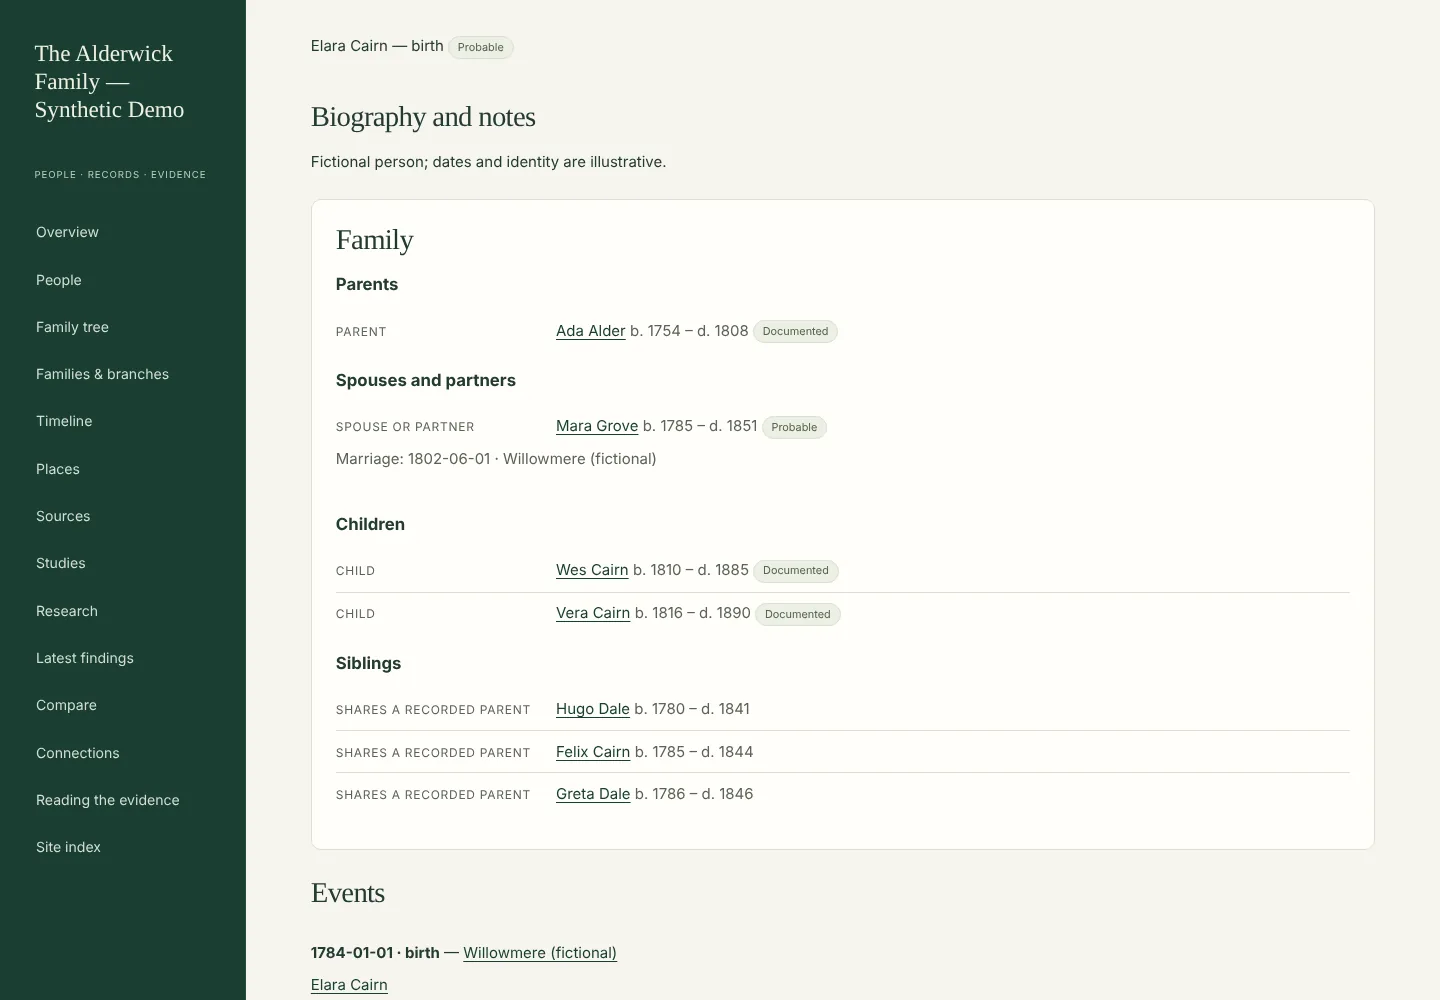
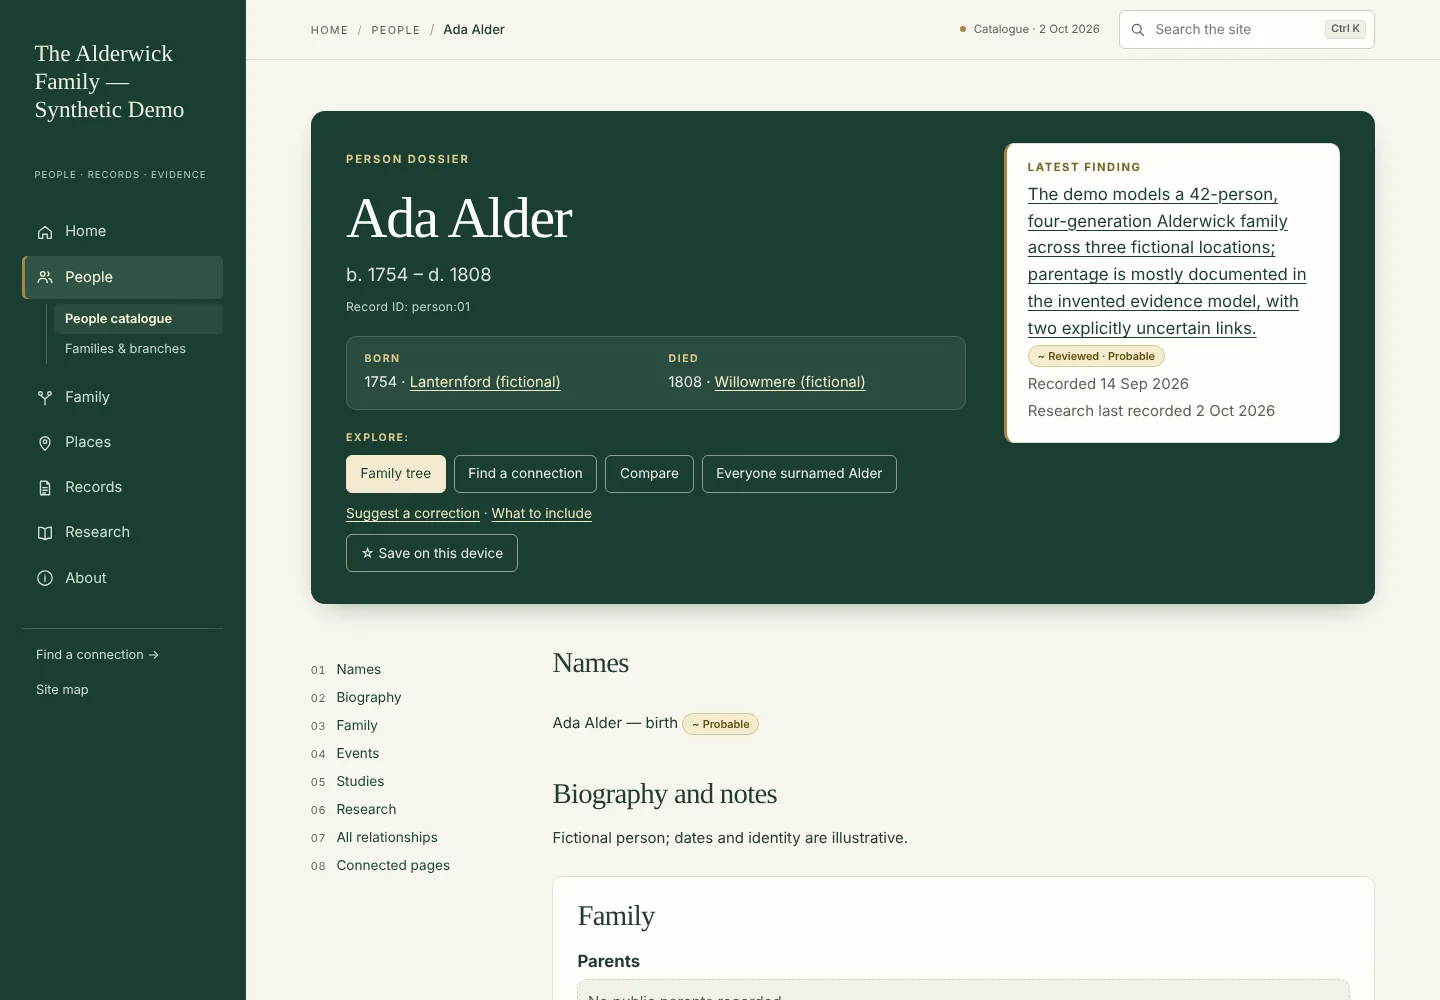
docs(readme): show the site as it now is, with refreshed screenshots and a capture script
Claude-Session: https://claude.ai/code/session_01XeMQC8PZDPeMtLwTfRoNKi

diff --git a/tools/readme_screenshots.py b/tools/readme_screenshots.py
@@ -1,0 +1,172 @@
+#!/usr/bin/env python3
+"""Capture the README and guide screenshots from the fictional demo.
+
+Builds examples/demo into a temporary folder (with the demo's own settings plus
+a contact address, the duplicates page, the surname and the tree name the
+README describes), serves it over a local-only server, and captures each page
+listed in SHOTS at 1440 x 1000 as a WebP under docs/images/. The upload screens
+come from ``genealogy serve`` on a temporary workspace, with the demo's own
+fictional GEDCOM chosen in the form. Nothing leaves the machine.
+
+    python tools/readme_screenshots.py            # every image
+    python tools/readme_screenshots.py people tree  # just these
+
+Needs the optional browser extras: ``pip install -e '.[browser]'`` and
+``python -m playwright install chromium`` (or GENEALOGY_BROWSER_EXECUTABLE).
+"""
+from __future__ import annotations
+
+import http.server
+import io
+import os
+import shutil
+import socket
+import subprocess
+import sys
+import tempfile
+import threading
+from functools import partial
+from pathlib import Path
+
+ROOT = Path(__file__).resolve().parents[1]
+IMAGES = ROOT / "docs" / "images"
+DEMO = ROOT / "examples" / "demo"
+WIDTH, HEIGHT = 1440, 1000
+
+# name -> (path, action before the shot: None, a CSS selector to click, or a callable(page))
+SHOTS: dict[str, tuple[str, object]] = {
+    "overview": ("index.html", None),
+    "people": ("catalogue.html", "summary:has-text('Places')"),
+    "tree": ("tree.html", "button:has-text('Hourglass')"),
+    "dossier": ("catalogue.html#first", None),  # the first person listed in the catalogue, resolved at run time
+    "research": ("research.html", None),
+    "study": ("studies/", None),  # the first study
+    "findings": ("findings.html", None),
+    "branches": ("branches.html", None),
+    "places": ("places.html", None),
+    "evidence": ("evidence.html", None),
+    "records": ("records.html", None),
+    "statistics": ("statistics.html", None),
+    "about-data": ("about-data.html", None),
+}
+
+
+def free_port() -> int:
+    with socket.socket() as sock:
+        sock.bind(("127.0.0.1", 0))
+        return sock.getsockname()[1]
+
+
+def serve(directory: Path) -> tuple[http.server.ThreadingHTTPServer, str]:
+    class Quiet(http.server.SimpleHTTPRequestHandler):
+        def log_message(self, *args, **kwargs):  # noqa: D102 - keep the capture log readable
+            pass
+    handler = partial(Quiet, directory=str(directory))
+    server = http.server.ThreadingHTTPServer(("127.0.0.1", free_port()), handler)
+    threading.Thread(target=server.serve_forever, daemon=True).start()
+    return server, f"http://127.0.0.1:{server.server_address[1]}/"
+
+
+def build_demo(target: Path) -> Path:
+    project = target / "demo"
+    shutil.copytree(DEMO, project)
+    config = project / "genealogy.toml"
+    text = config.read_text(encoding="utf-8")
+    text = text.replace("[site]\n", '[site]\ncontact_email = "corrections@example.org"\nduplicates = true\ntree_name = "WikiTree"\n', 1)
+    text += '\n[names]\nsurname = "Alderwick"\n'
+    config.write_text(text, encoding="utf-8")
+    out = target / "site"
+    subprocess.run([sys.executable, "-m", "genealogy", "--project", str(project), "build", "--output", str(out)],
+                   check=True, cwd=ROOT, env={**os.environ, "PYTHONPATH": str(ROOT / "src")}, capture_output=True)
+    return out
+
+
+def save(page, name: str) -> None:
+    from PIL import Image
+    png = page.screenshot(type="png")
+    IMAGES.mkdir(parents=True, exist_ok=True)
+    Image.open(io.BytesIO(png)).convert("RGB").save(IMAGES / f"{name}.webp", "WEBP", quality=82, method=6)
+    print(f"wrote docs/images/{name}.webp")
+
+
+def first(site: Path, folder: str) -> str:
+    return folder + sorted(p.name for p in (site / folder).glob("*.html"))[0]
+
+
+def capture_site(wanted: set[str]) -> None:
+    from playwright.sync_api import sync_playwright
+    with tempfile.TemporaryDirectory() as temporary, sync_playwright() as playwright:
+        site = build_demo(Path(temporary))
+        server, base = serve(site)
+        browser = playwright.chromium.launch(executable_path=os.environ.get("GENEALOGY_BROWSER_EXECUTABLE") or None)
+        page = browser.new_page(viewport={"width": WIDTH, "height": HEIGHT})
+        try:
+            for name, (path, action) in SHOTS.items():
+                if name not in wanted:
+                    continue
+                if path.endswith("/"):
+                    path = first(site, path)
+                elif path == "catalogue.html#first":
+                    page.goto(base + "catalogue.html")
+                    path = page.locator("tbody tr td a").first.get_attribute("href")
+                page.goto(base + path)
+                page.wait_for_load_state("networkidle")
+                if callable(action):
+                    action(page)
+                elif action:
+                    page.locator(action).first.click()
+                page.wait_for_timeout(400)
+                save(page, name)
+        finally:
+            browser.close()
+            server.shutdown()
+
+
+def capture_upload(wanted: set[str]) -> None:
+    """The ``genealogy serve`` upload form, empty and after importing the demo GEDCOM."""
+    if not wanted & {"upload", "upload-result"}:
+        return
+    from playwright.sync_api import sync_playwright
+    with tempfile.TemporaryDirectory() as temporary, sync_playwright() as playwright:
+        port = free_port()
+        process = subprocess.Popen([sys.executable, "-m", "genealogy", "--project", str(Path(temporary) / "workspace"), "serve", "--port", str(port)],
+                                   cwd=ROOT, env={**os.environ, "PYTHONPATH": str(ROOT / "src")}, stdout=subprocess.DEVNULL, stderr=subprocess.DEVNULL)
+        browser = playwright.chromium.launch(executable_path=os.environ.get("GENEALOGY_BROWSER_EXECUTABLE") or None)
+        page = browser.new_page(viewport={"width": WIDTH, "height": HEIGHT})
+        try:
+            for _ in range(50):
+                try:
+                    page.goto(f"http://127.0.0.1:{port}/")
+                    break
+                except Exception:  # noqa: BLE001 - the server is still starting
+                    page.wait_for_timeout(200)
+            page.wait_for_load_state("networkidle")
+            if "upload" in wanted:
+                save(page, "upload")
+            if "upload-result" in wanted:
+                page.set_input_files("#file", str(DEMO / "input" / "family.ged"))
+                page.fill("#name", "The Alderwick family (fictional)")
+                page.check("#review")
+                page.click("#submit")
+                page.locator("#result a").first.wait_for(timeout=60000)
+                page.locator("#result").scroll_into_view_if_needed()
+                page.wait_for_timeout(600)
+                save(page, "upload-result")
+        finally:
+            browser.close()
+            process.terminate()
+
+
+def main(argv: list[str]) -> int:
+    wanted = set(argv) or set(SHOTS) | {"upload", "upload-result"}
+    unknown = wanted - set(SHOTS) - {"upload", "upload-result"}
+    if unknown:
+        print("unknown screenshot(s): " + ", ".join(sorted(unknown)), file=sys.stderr)
+        return 2
+    capture_site(wanted)
+    capture_upload(wanted)
+    return 0
+
+
+if __name__ == "__main__":
+    raise SystemExit(main(sys.argv[1:]))

diff --git a/README.md b/README.md
@@ -24,28 +24,43 @@ Imports and builds run on your computer with **no runtime dependencies or networ
 
 ## What you can build
 
-![The fictional Alderwick family research website](docs/images/overview.webp)
+![The fictional Alderwick family research website: a home page with the tree at a glance, question-led entry cards and the latest findings](docs/images/overview.webp)
 
-| Explore the tree | Follow the evidence |
+| Find a person | Read a dossier |
 | --- | --- |
-| ![Interactive family tree with recorded relationship labels](docs/images/tree.webp) | ![Research notebook with claims, citations, hypotheses and questions](docs/images/research.webp) |
-| Pan, zoom and focus on a family. Uncertain links stay visible. | Keep sources, assessments and outstanding questions in view. |
-| ![Person dossier showing parents, partners, children and siblings](docs/images/dossier.webp) | ![Written study with linked people and a current conclusion](docs/images/study.webp) |
-| Read a family at a glance, including recorded step and adoptive roles. | Explain what you investigated, what the records show and what you conclude. |
+| ![The people catalogue: a research table with birth, death, places, spouse, father and mother, and seven filter menus](docs/images/people.webp) | ![A person dossier opening with a hero card of vitals, actions and the latest finding](docs/images/dossier.webp) |
+| A research table of everyone — dates, places, spouse, father and mother, each link with its evidence badge — behind seven menus: Name, Relatives, Dates, Places, Evidence, Filters and your tree. | Vitals, the latest finding and what to do next, then names, family with the reason for every link, events, studies and research. |
+| ![Interactive family tree, here the hourglass view around one person](docs/images/tree.webp) | ![The research notebook: open questions as cards, then hypotheses, findings, claims and the research log](docs/images/research.webp) |
+| Whole tree, family focus, branch cards, hourglass, family sun and lanes. Uncertain links stay visible. | Open questions first, with what would answer them; then hypotheses, findings, claims and every search made, including the ones that found nothing. |
 
 <details>
-<summary><b>More views: people, places, branches and evidence</b></summary>
+<summary><b>More views: studies, findings, records, branches, places, evidence, statistics and the data</b></summary>
 
-| Find and explore | Read with context |
+| Write it up | Follow the evidence |
 | --- | --- |
-| ![Searchable people catalogue with surname filters and life dates](docs/images/people.webp) | ![Surname groups and connected families](docs/images/branches.webp) |
-| Search names, relatives, events and places; filter, sort and paginate. | Browse surname groups and recorded family connections. |
-| ![Offline map using coordinates supplied in the imported data](docs/images/places.webp) | ![Reader's guide to confidence, status and relationship labels](docs/images/evidence.webp) |
-| Explore a timeline and place list, with a map where coordinates are supplied. | See what confidence labels mean, including “Unassessed tree link”. |
+| ![A written study with its type, counts, a locator map, limits and grouped links](docs/images/study.webp) | ![The findings log as a filterable table with a legend and feed link](docs/images/findings.webp) |
+| Why a question was investigated, what the records show, what it does not establish, and who and where it concerns. | Every dated conclusion, filterable by words, type, status, person, study and place; an Atom feed when a site has an address. |
+| ![The records page: one row per cited record with year, people, type, place and strongest assessment](docs/images/records.webp) | ![Reading the evidence: every badge and line explained, from strongest to weakest](docs/images/evidence.webp) |
+| Browse every cited record; search, filter by type, year and evidence, and sort. | One badge system across the site: confidence, grade, status, record quality and finding type, each linked to its meaning. |
+| ![Families and branches: surname groups with their people, years and places](docs/images/branches.webp) | ![Places: summary cards, a region filter and an offline map from supplied coordinates](docs/images/places.webp) |
+| Surname groups (spelling variants folded together) and connected families. | Place cards and pages, grouped by the region you file them under, with a map wherever coordinates are supplied. No tiles, no network. |
+| ![Statistics: a panel of headline figures and charts of births by century, names and places](docs/images/statistics.webp) | ![About the data: what the site counts, why pages count differently, and what it leaves out](docs/images/about-data.webp) |
+| What is in the collection and how well it is evidenced. | How the figures were gathered and graded, what every label means, and a dated change log of what moved. |
 
 </details>
 
-The screenshots use the [fully fictional Alderwick demo](examples/demo/README.md), captured on 19 October 2026 at 1440 × 1000. They contain no real family data. Core people, source, and research content remains readable with JavaScript disabled; interactive tools use local JavaScript.
+The screenshots use the [fully fictional Alderwick demo](examples/demo/README.md), captured on 22 October 2026 at 1440 × 1000 with `python tools/readme_screenshots.py`. They contain no real family data. Every page is readable with JavaScript disabled; the menus, search, maps and trees are local JavaScript with no network requests.
+
+### What a site contains
+
+| Area | Pages |
+| --- | --- |
+| People | Find a person (the catalogue), person dossiers, families and branches, possible duplicates (optional) |
+| Family | Family tree (six views), timeline, find a connection, compare two people |
+| Places | Map and place list, one page per place, statistics |
+| Records | All cited records, sources and citations, reading the evidence |
+| Research | Research notebook, studies, latest findings, research progress |
+| About | Site index and downloads (JSON, CSV, GeoJSON, GEDCOM, feeds), about the data, change log, corrections |
 
 ## Get started
 
@@ -115,13 +130,13 @@ The demo has 42 invented people, four generations, sources, uncertainty, and res
 
 | From a GEDCOM or OneTree export | With additional research |
 | --- | --- |
-| People, recorded names, supported event fields, and family links | Evidence-based identity and relationship assessments |
-| Search, individual dossiers, whole tree, family focus, branch cards and surname groups | Written family studies and a dated findings log, once you write them |
-| Timelines and place lists; maps when coordinates are supplied | Reviewed coordinates with their precision, and archive research |
-| Comparison and shortest recorded connection paths | Resolution of namesakes and competing hypotheses |
-| GEDCOM bibliography and citation locators after explicit review | Source transcriptions, images, and record-by-record analysis |
-| Step/adoptive roles and the tree's own uncertainty marks, shown as such | Assessed confidence for each relationship, with its reasoning |
-| Public JSON, CSV, GeoJSON and a filtered GEDCOM download | Derived DNA findings supplied separately and reviewed |
+| People, recorded names, supported event fields, and family links | Evidence-based identity and relationship assessments, each with its reason and limits |
+| Find a person, dossiers, six tree views, branch cards, surname groups and statistics | Written studies, a dated findings log with what each finding changed, and a research log of searches made |
+| Timelines, place cards and pages; maps when coordinates are supplied | Reviewed coordinates with their precision, the regions you file places under, and archive research |
+| Comparison and shortest recorded connection paths, with an evidence threshold | Resolution of namesakes and competing hypotheses, with the points for and against |
+| GEDCOM bibliography and citation locators after explicit review | Record quality, abstracts, source transcriptions and record-by-record analysis |
+| Step/adoptive roles and the tree's own uncertainty marks, shown as such | Assessed confidence for each relationship, in your own grades if you define them |
+| Public JSON, CSV, GeoJSON and a filtered GEDCOM download; a change log and progress history | Open questions with what would answer them and the next record to check; corrections from readers |
 
 An export supplies recorded tree assertions. It cannot manufacture missing sources, prove parentage, recover photographs, or infer DNA results. OneTree biography text is retained privately; arbitrary WikiTree markup is not converted into independently verified citations. [Supported formats and limitations](docs/imports.md) describe exactly what is imported.
 
@@ -168,12 +183,14 @@ All generated site links are relative, so the site works under a subdirectory an
 | [Developer guide](docs/development.md) | Tests, package builds, adapters, and release checklist |
 | [Changelog](CHANGELOG.md) | Changes in the reusable package |
 
+To make the site read as your project's, set the surname, the online tree you work from, spelling variants, your own confidence grades, a contact address for corrections and a base address for feeds in `genealogy.toml`; [build and deployment](docs/deployment.md) lists every setting.
+
 ```sh
 python -m pip install -e '.[dev]'
 make check
 python -m build
 ```
 
-Browser checks are optional: install `.[browser]`, run `python -m playwright install chromium`, then `make browser-check`. Tests and demos use fictional records only.
+Browser checks are optional: install `.[browser]`, run `python -m playwright install chromium`, then `make browser-check`. The same extras let `python tools/readme_screenshots.py` refresh the screenshots above from the demo. Tests and demos use fictional records only.
 
 Licensed under [MIT](LICENSE). The software license does not grant rights to records, photographs, or other material you import.

diff --git a/CHANGELOG.md b/CHANGELOG.md
@@ -4,6 +4,7 @@
 
 - The people catalogue is a **Find a person** page with seven filter menus: **Name** (first names, last name at birth or current, full name, gender, exact spelling), **Relatives** (a row per spouse, father, mother, child or sibling), **Dates** (any record, birth or death, from and to), **Places** (any, any record, birth, marriage, death or biography, a country or region, places to exclude), **Evidence** (the study naming someone, the record types and quality of the records cited, and the claims filter), **Filters** (born or married into the project's surname, a name suffix, missing father or mother, descendants, no spouse) and a tree menu (no external link, pending relationship changes by relationship, action and new confidence, read from findings not yet reviewed or applied). A header links the name index, the downloads and the held and pending research; the result toolbar adds **Family branch** grouping, a **Location detail** level and a **Sort results** menu with best match and relationship-change orders. Every control is a real form control and is kept in the address under its own key; the old `birth_from`, `death_from` and `no_parent` addresses still work, and `?surname=` links show the surname in the Name menu. New optional `[names] surname` and `[site] tree_name` settings word the page, and `data/site-data.js` carries each person's given names, name kinds, studies, cited record types and qualities and pending changes. The **Recorded sex** menu (with its "Not recorded" choice), the separate birth and death year ranges and the surname menu are replaced by these controls. See [Name the surname and the online tree](docs/research.md#name-the-surname-and-the-online-tree).
 - `Place.region` names the country or broad region a project files a place under, in its own words; the places page and the catalogue's **Country or region** menu use it, falling back to the last part of the place name as written. When a project has studies with `kind = "group"`, the catalogue's **Possible group** menu lists only those.
+- The README shows the site as it now is, with screenshots refreshed by the new `tools/readme_screenshots.py` (which builds the demo, serves it locally and captures each page).
 
 
 ## 0.8.0 — 22 October 2026

diff --git a/docs/development.md b/docs/development.md
@@ -64,7 +64,7 @@ An adapter returns `AdapterBatch`: typed neutral entities, private audit observa
 1. Set the version in `pyproject.toml` and date its `CHANGELOG.md` entry.
 2. Run the unit and browser checks (with `GENEALOGY_AXE_PATH`), then build the wheel and source distribution.
 3. Install the wheel outside the checkout and check `init → import → build → check-links`.
-4. Inspect the fictional demo and README screenshots, and validate documentation links.
+4. Inspect the fictional demo, refresh the README screenshots with `python tools/readme_screenshots.py` (needs the browser extras) and check them, and validate documentation links.
 5. Review the release for real research, credentials, private captures and generated artifacts.
 6. Commit, tag `vX.Y.Z`, push `main` and the tag, then publish the GitHub release:
 
